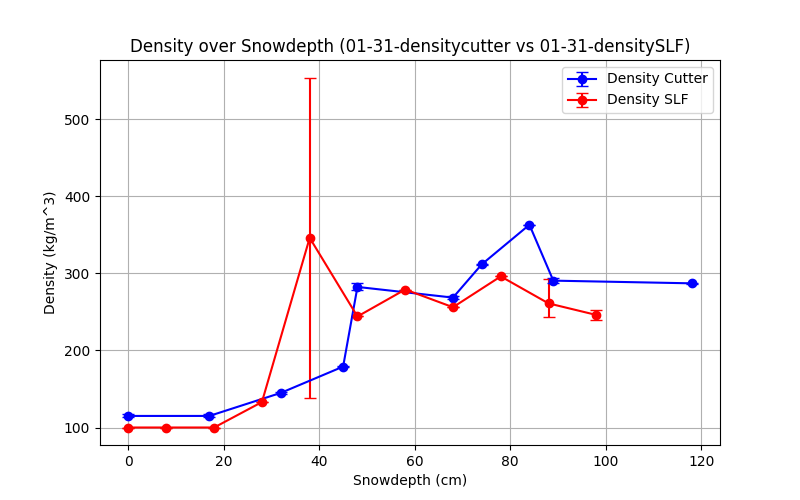
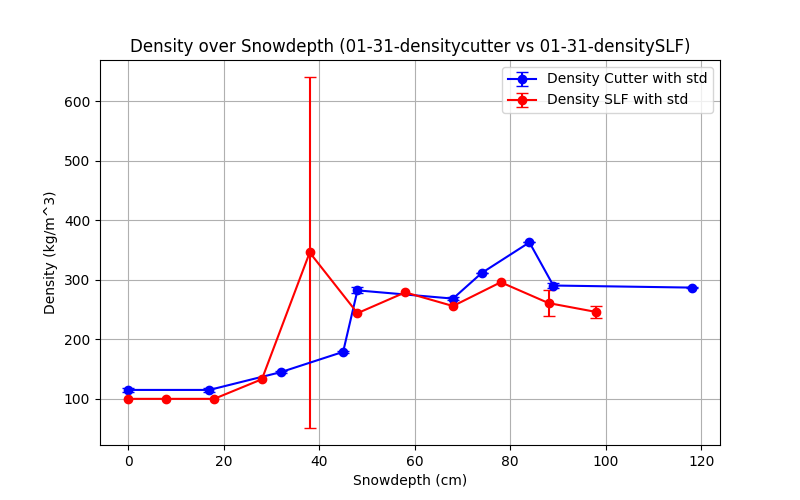
changed uppe lower value to std while plotting density

diff --git a/visualizationsdensity.py b/visualizationsdensity.py
@@ -21,13 +21,11 @@ def load_csv(file_name):
     #delete rows were man has a NaN value
     df = df.dropna(subset=["mean"])
 
-    #Min and max values for density
-    df["min"] = df[["density1", "density2", "density3", "density4"]].min(axis=1)
-    df["max"] = df[["density1", "density2", "density3", "density4"]].max(axis=1)
+    # Standardabweichung berechnen
+    df["std"] = df[["density1", "density2", "density3", "density4"]].std(axis=1)
 
-    # Fehlerbalken: asymmetrisch
-    df["err_lower"] = df["mean"] - df["min"]
-    df["err_upper"] = df["max"] - df["mean"]
+    # Fehlerbalken: symmetrisch mit Standardabweichung
+    df["err"] = df["std"]
 
     return df
 
@@ -37,13 +35,14 @@ def plot_density(df_cutter, df_slf, cutter_name, slf_name):
 
     # Cutter
     plt.errorbar(df_cutter["snowdepth"], df_cutter["mean"],
-                 yerr=[df_cutter["err_lower"], df_cutter["err_upper"]],
-                 fmt='o-', color='blue', capsize=4, label='Density Cutter')
+                yerr=df_cutter["err"],
+                fmt='o-', color='blue', capsize=4, label='Density Cutter with std')
 
-    # SLF-
+    # SLF
     plt.errorbar(df_slf["snowdepth"], df_slf["mean"],
-                 yerr=[df_slf["err_lower"], df_slf["err_upper"]],
-                 fmt='o-', color='red', capsize=4, label='Density SLF')
+                yerr=df_slf["err"],
+                fmt='o-', color='red', capsize=4, label='Density SLF with std')
+
 
     plt.xlabel("Snowdepth (cm)")
     plt.ylabel("Density (kg/m^3)")
